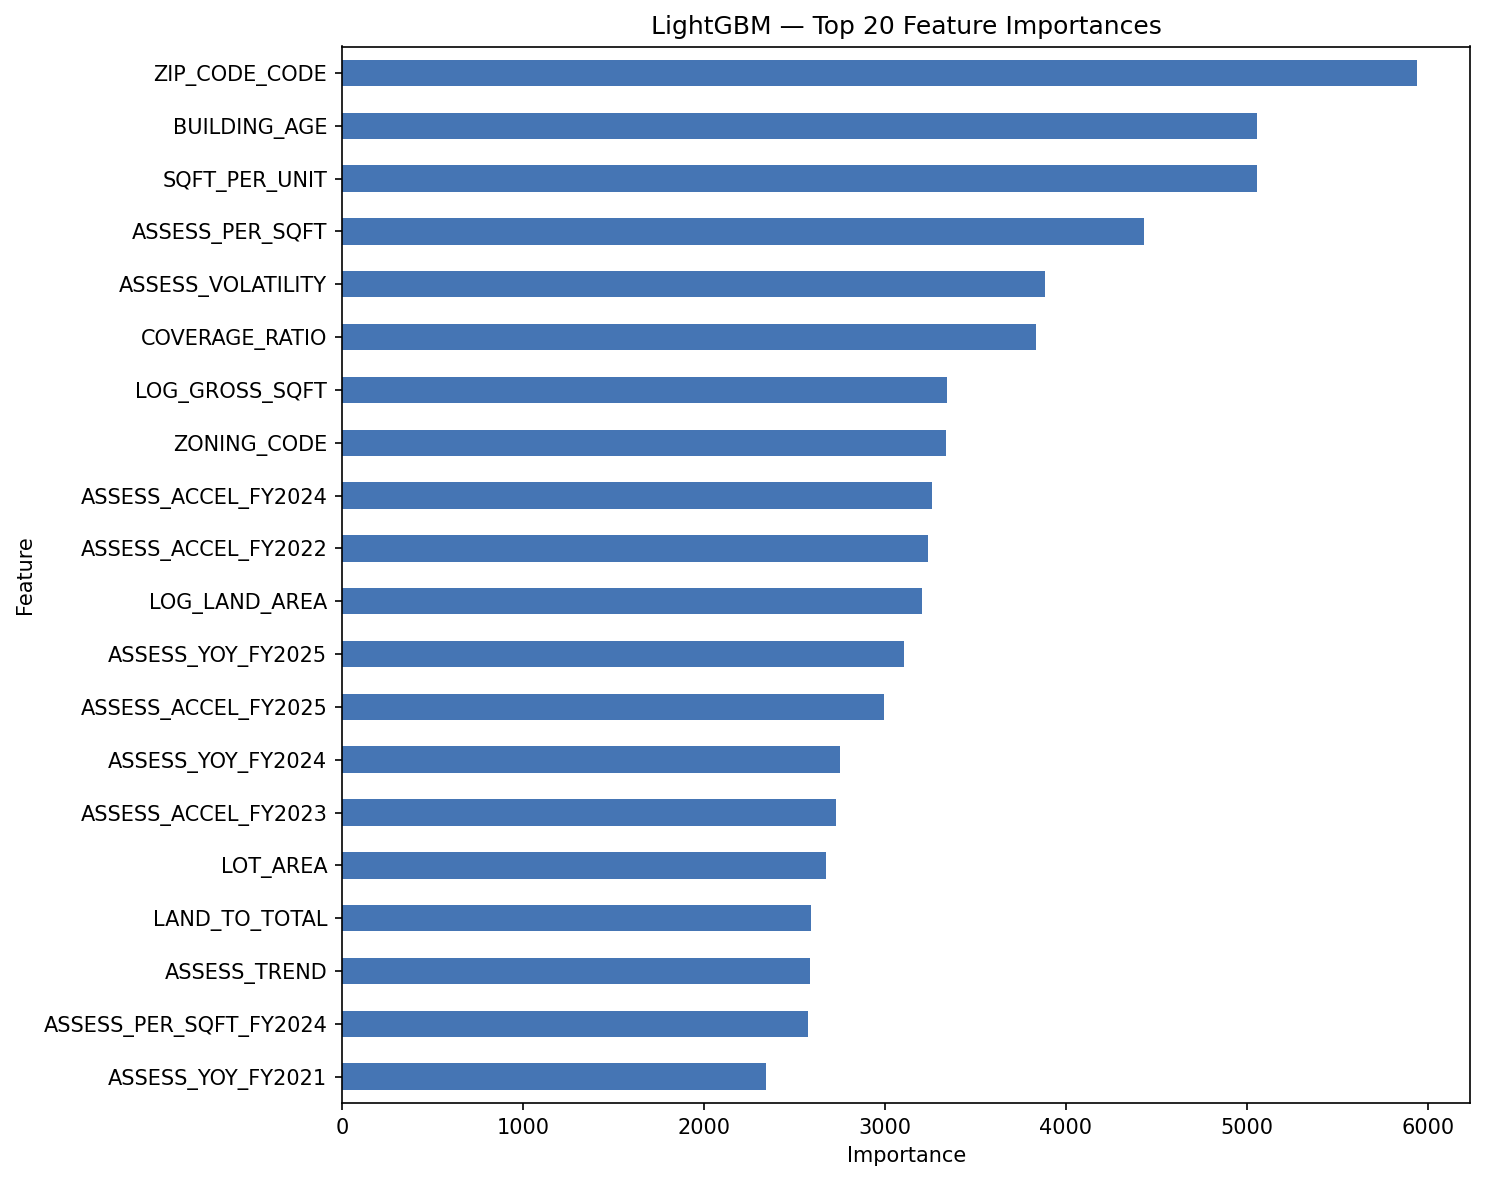
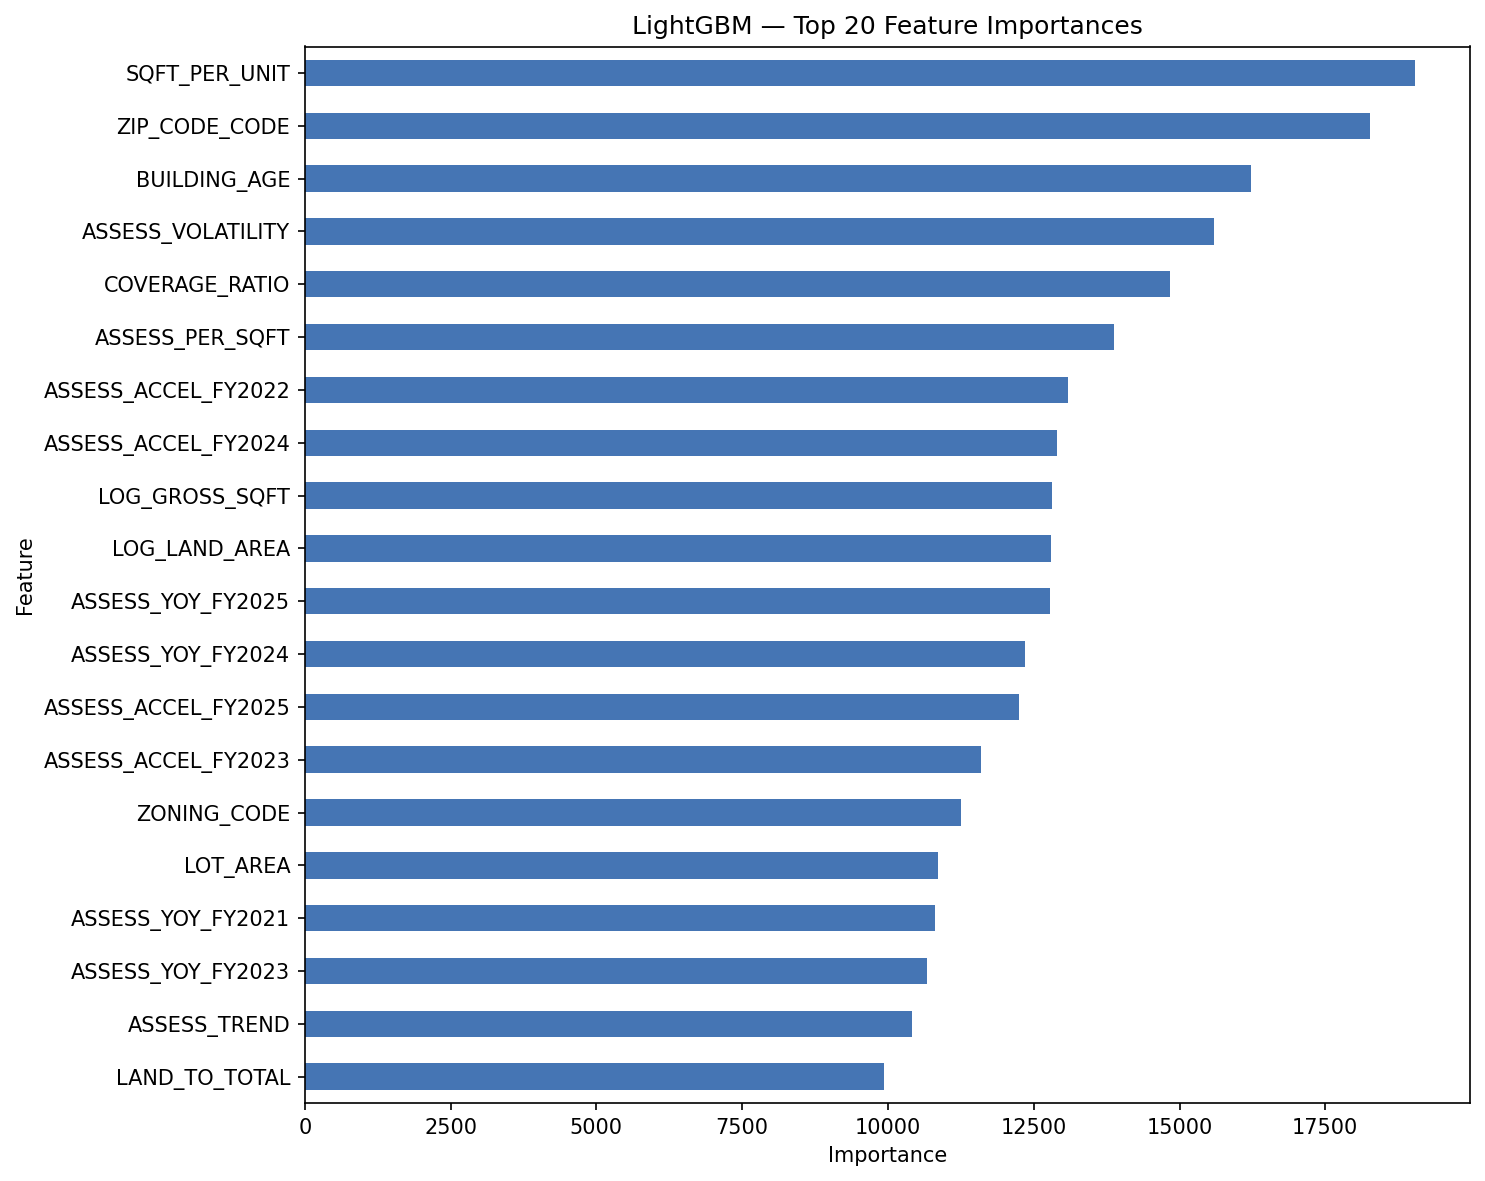
Done

diff --git a/python_scripts/non_linear_ml_models.py b/python_scripts/non_linear_ml_models.py
@@ -55,7 +55,7 @@ CV_FOLDS    = 5
 # False   → use cached params, skip CV (normal runs)
 # True    → wipe cache, run fresh CV, save results regardless
 # "safe"  → run fresh CV, only update cache if new params are better
-FORCE_RETUNE = "safe"
+FORCE_RETUNE = False
 
 # ── Evaluation ────────────────────────────────────────────────────────────────
 def evaluate(model, X_test, y_test):